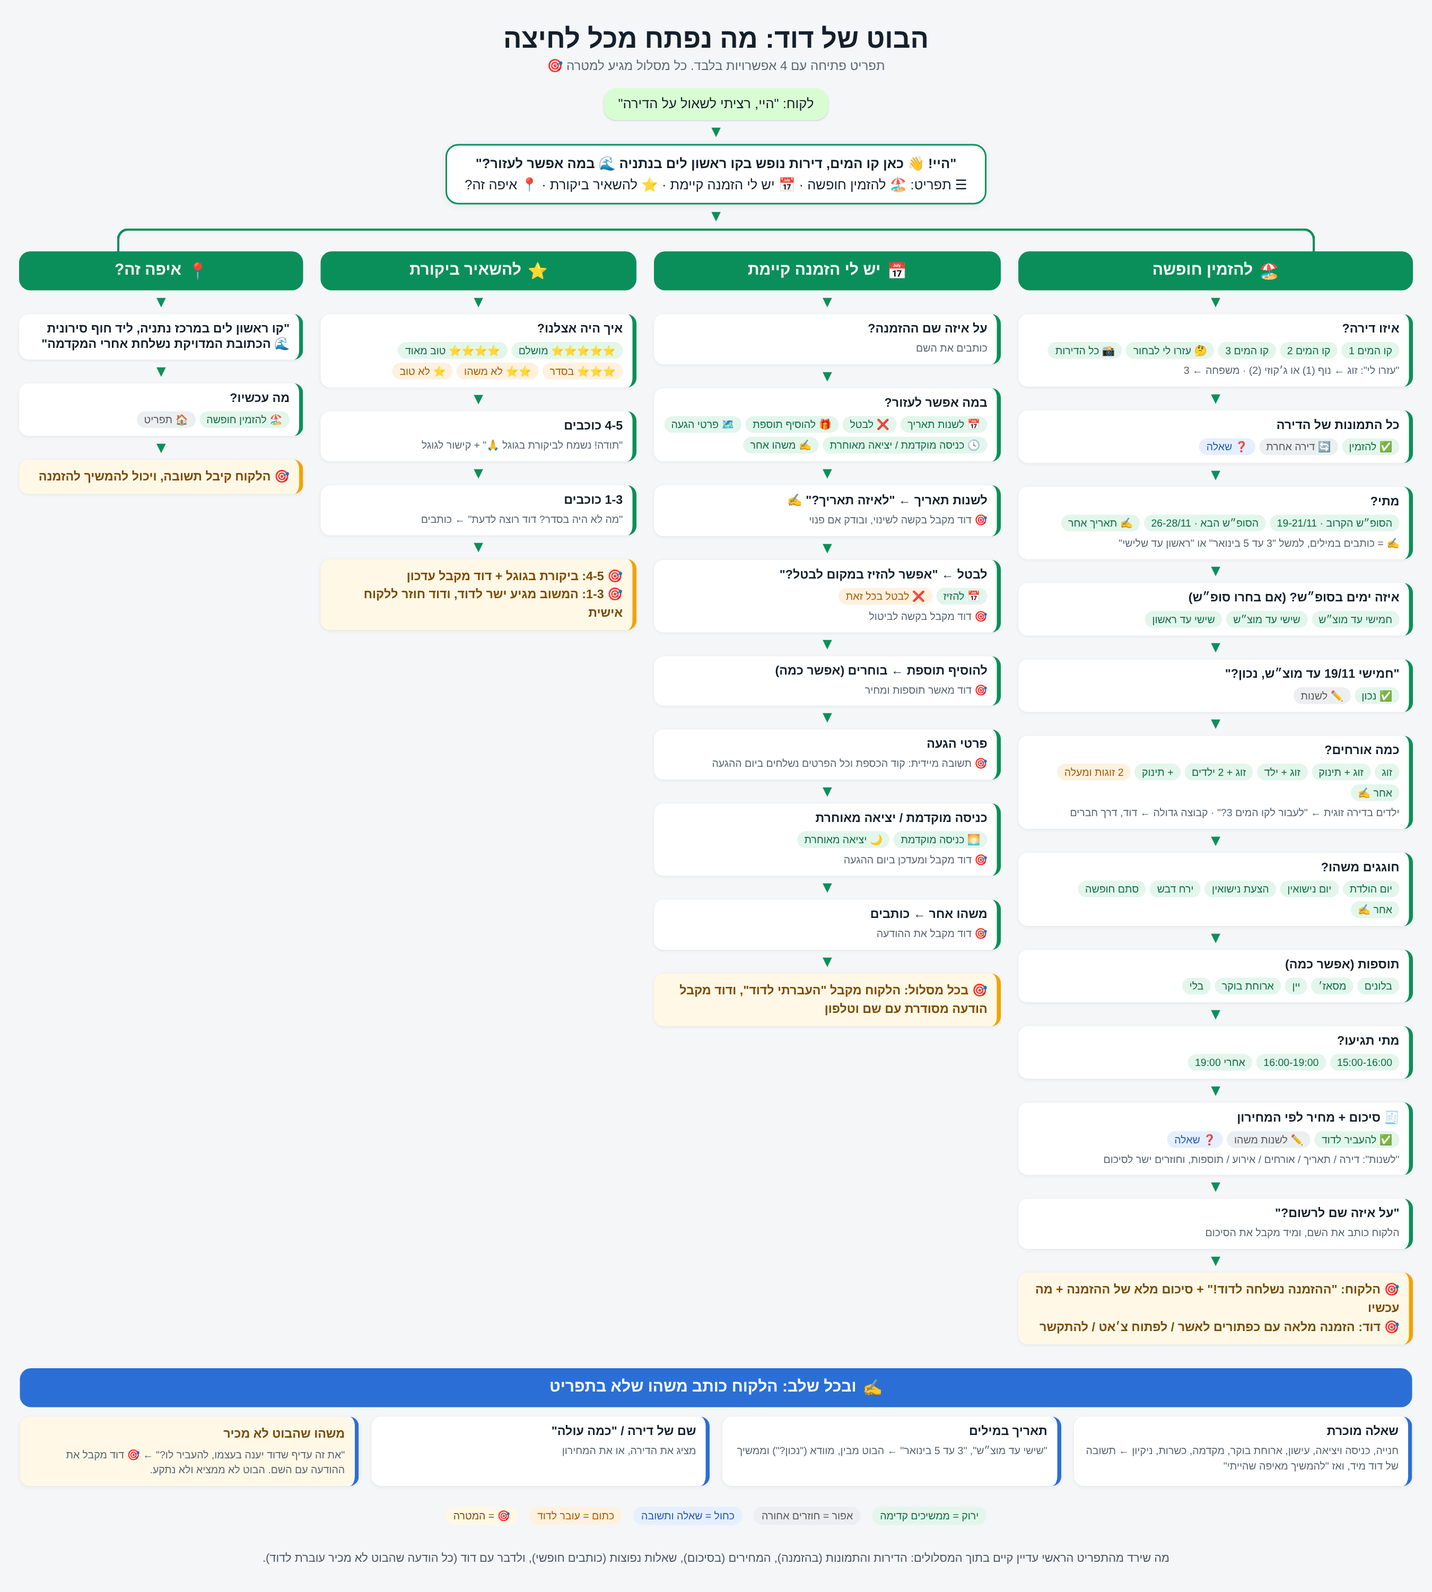
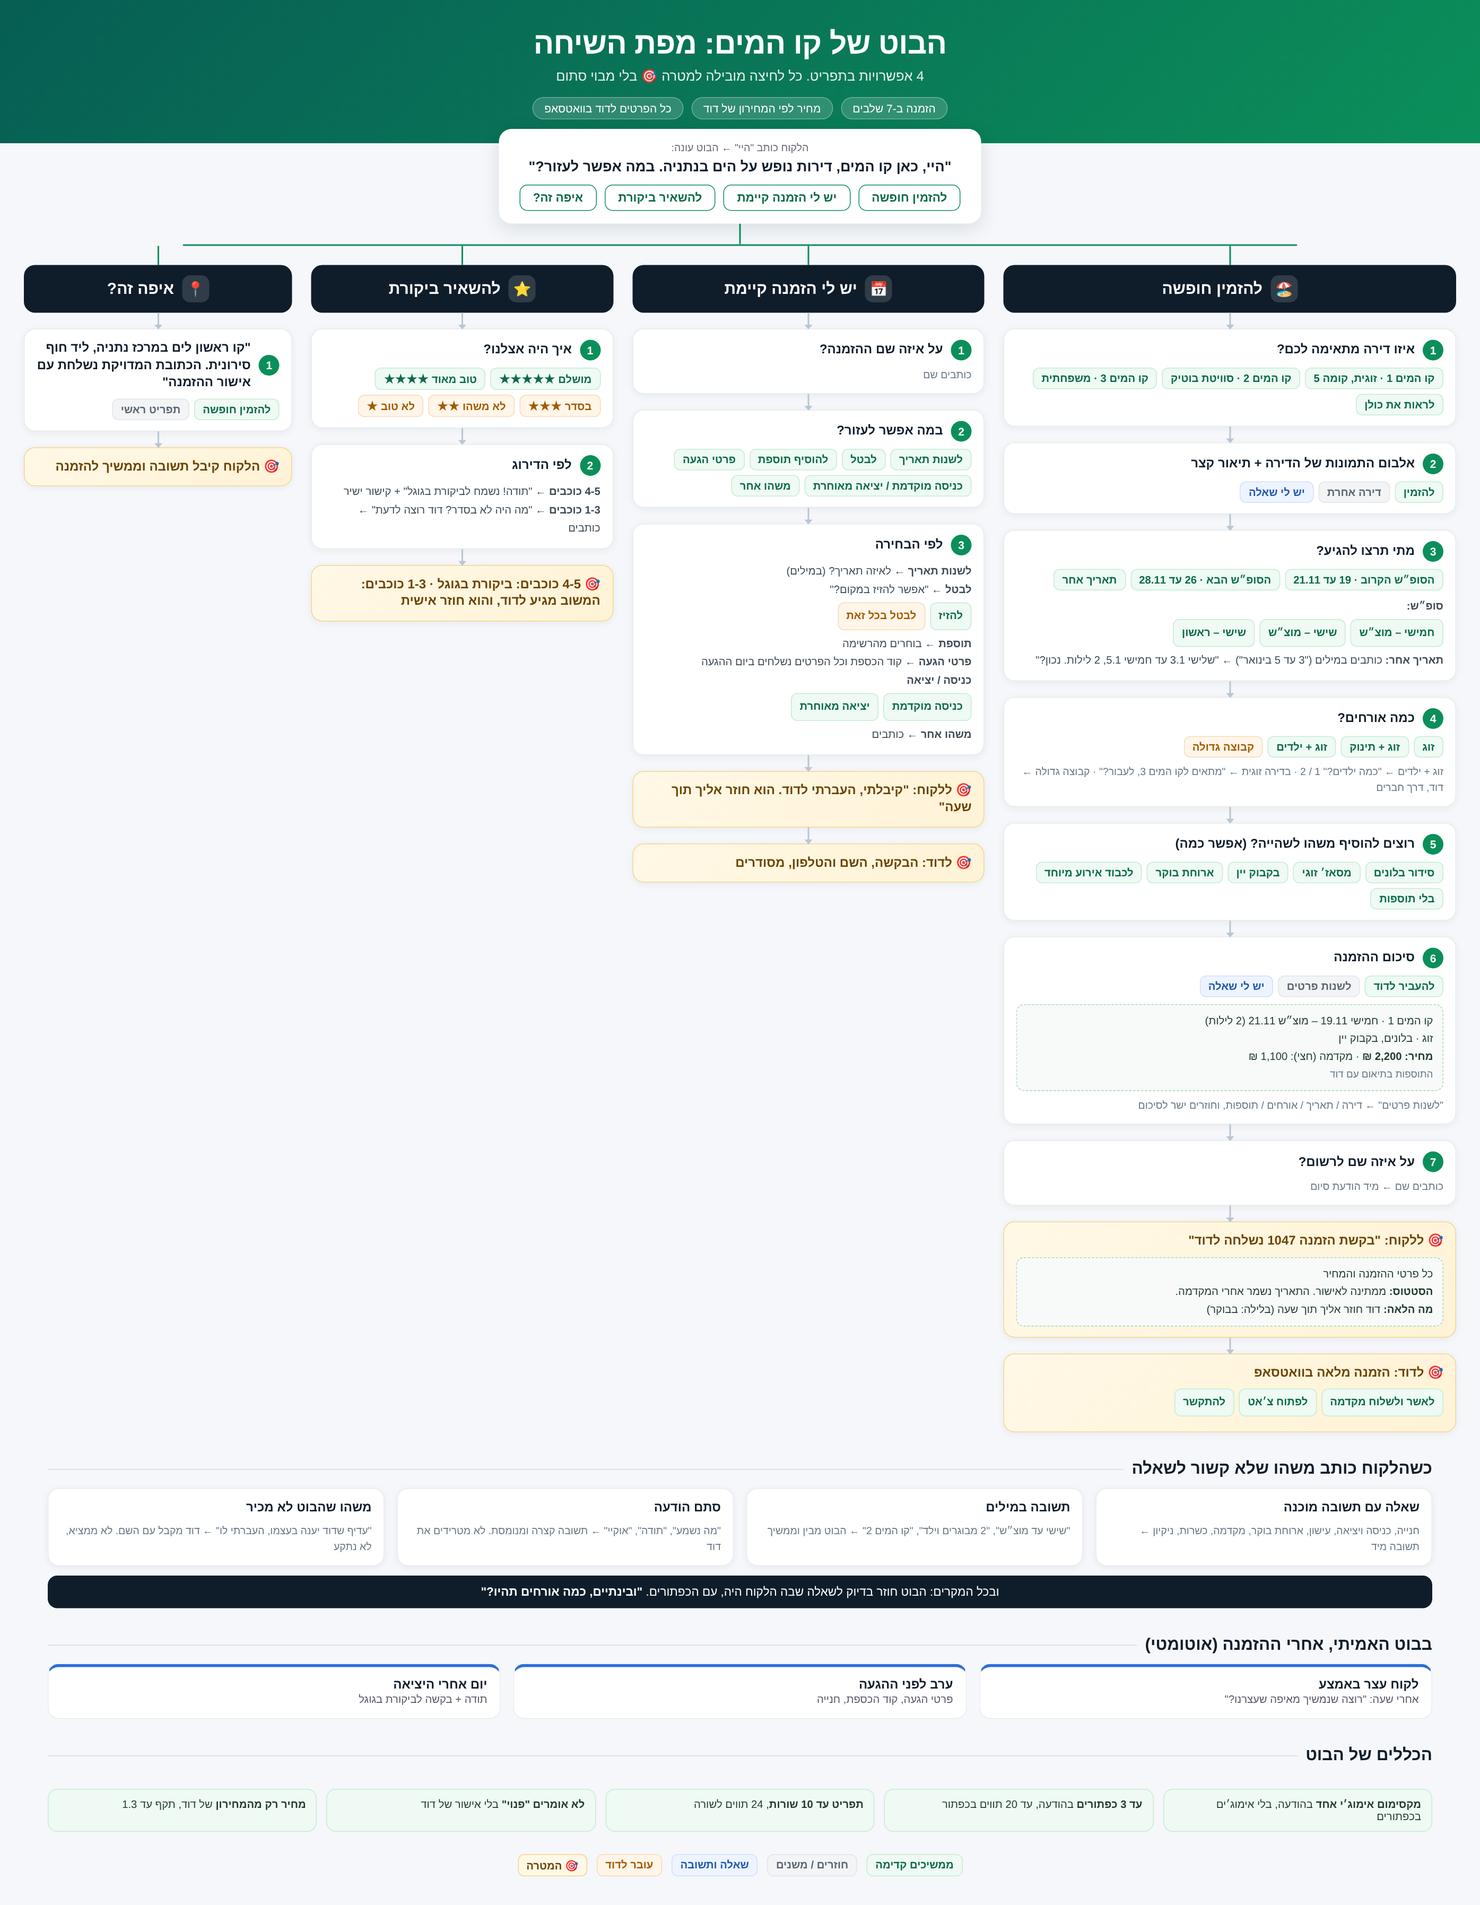
David: professional conversation map (7-step booking, 4-option menu)
Claude-Session: https://claude.ai/code/session_01ASRMwiCmV7VLN1LwrbbDK1

Changed region(s): [[0.0, 0.0, 1.0, 0.9913], [0.6533, 0.9294, 0.6844, 0.9604]]

diff --git a/automation-agency/clients/david-vacation/menu-bot/david-menu-funnel.html b/automation-agency/clients/david-vacation/menu-bot/david-menu-funnel.html
@@ -1,0 +1,46 @@
+<!doctype html><html dir="rtl"><head><meta charset="utf-8"><style>
+*{box-sizing:border-box}body{margin:0;background:#f5f7fa;font-family:"Heebo","Assistant",Arial,sans-serif;color:#0f1d2b}
+.top{background:linear-gradient(135deg,#075e54,#0b8f5a);color:#fff;padding:34px 40px 30px;text-align:center}
+.top h1{margin:0;font-size:38px;font-weight:800;letter-spacing:-.5px}.top p{margin:8px 0 0;font-size:17px;opacity:.9}
+.badges{display:flex;justify-content:center;gap:10px;margin-top:16px}.badges span{background:rgba(255,255,255,.16);border:1px solid rgba(255,255,255,.3);border-radius:20px;padding:5px 14px;font-size:14px}
+.start{display:flex;flex-direction:column;align-items:center;margin-top:-18px}
+.bub{background:#fff;border-radius:16px;box-shadow:0 6px 24px rgba(15,29,43,.12);padding:16px 26px;text-align:center;max-width:820px}
+.bub .c{font-size:13px;color:#667;margin-bottom:6px}.bub .m{font-size:18px;font-weight:600}
+.menu{display:flex;gap:10px;justify-content:center;margin-top:12px}.menu span{border:1.5px solid #0b8f5a;color:#0b6b45;border-radius:10px;padding:7px 16px;font-weight:600;font-size:15px}
+.trunk{width:2px;height:26px;background:#0b8f5a;margin:0 auto}.bar{height:2px;background:#0b8f5a;margin:0 auto;width:calc(100% - 420px);max-width:1400px}
+.cols{display:grid;grid-template-columns:1.35fr 1.05fr .9fr .8fr;gap:24px;padding:0 30px;max-width:1860px;margin:0 auto;align-items:start}
+.col{display:flex;flex-direction:column;align-items:stretch}
+.col::before{content:"";width:2px;height:24px;background:#0b8f5a;align-self:center}
+.hd{background:#0f1d2b;color:#fff;border-radius:14px;padding:13px 16px;font-size:20px;font-weight:700;display:flex;align-items:center;gap:10px;justify-content:center}
+.ic{background:rgba(255,255,255,.14);width:34px;height:34px;border-radius:10px;display:inline-flex;align-items:center;justify-content:center;font-size:18px}
+.ln{width:2px;height:20px;background:#b9c6d2;align-self:center;position:relative}.ln::after{content:"";position:absolute;bottom:-1px;left:-4px;border:5px solid transparent;border-top:6px solid #b9c6d2;border-bottom:0}
+.st{background:#fff;border-radius:14px;padding:13px 15px;box-shadow:0 2px 10px rgba(15,29,43,.06);border:1px solid #e7ecf1}
+.sh{display:flex;align-items:center;gap:10px}.num{background:#0b8f5a;color:#fff;min-width:26px;height:26px;border-radius:50%;display:inline-flex;align-items:center;justify-content:center;font-weight:700;font-size:14px}
+.q{font-weight:700;font-size:16px;line-height:1.35}
+.os{display:flex;flex-wrap:wrap;gap:6px;margin-top:9px}.o{font-size:13.5px;border-radius:8px;padding:5px 10px;font-weight:600;border:1px solid}
+.o.g{background:#eefaf3;color:#0b6b45;border-color:#c6ebd5}.o.r{background:#f2f4f6;color:#5a6672;border-color:#e0e5ea}.o.b{background:#eef4ff;color:#1f57b0;border-color:#cfdffb}.o.d{background:#fff5e8;color:#a35a00;border-color:#f6dcb6}
+.sub{font-size:13.5px;color:#3d4a56;margin-top:9px;line-height:1.7}.sub .os{margin:4px 0 6px}
+.n{font-size:13px;color:#667585;margin-top:8px;line-height:1.55}
+.card{background:#f7faf8;border:1px dashed #9fd4b5;border-radius:10px;padding:9px 12px;font-size:13.5px;line-height:1.65;color:#1f3a2c}.card span{color:#667585;font-size:12.5px}
+.st.goal{background:linear-gradient(135deg,#fff8e6,#fff3d6);border-color:#f3d48f}.st.goal .q{color:#6b4300}
+.sec{max-width:1800px;margin:34px auto 0;padding:0 30px}.sect{font-size:21px;font-weight:800;margin-bottom:12px;display:flex;align-items:center;gap:10px}.sect::after{content:"";flex:1;height:1px;background:#d4dce4}
+.grid4{display:grid;grid-template-columns:repeat(4,1fr);gap:16px}
+.always{margin-top:12px;background:#0f1d2b;color:#fff;border-radius:12px;padding:12px 18px;font-size:15px;text-align:center}
+.tl{display:grid;grid-template-columns:repeat(3,1fr);gap:16px}.tli{background:#fff;border:1px solid #e7ecf1;border-radius:14px;padding:14px 16px;border-top:4px solid #2b6fd6}.tli b{display:block;font-size:16px}.tli span{font-size:13.5px;color:#556}
+.rules{max-width:1800px;margin:30px auto 0;padding:0 30px;display:grid;grid-template-columns:repeat(5,1fr);gap:12px}.rules div{background:#eefaf3;border:1px solid #c6ebd5;border-radius:12px;padding:11px 13px;font-size:13.5px;color:#1f3a2c}
+.leg{display:flex;gap:12px;justify-content:center;margin:28px 0 36px;font-size:13.5px}
+</style></head><body>
+<div class="top"><h1>הבוט של קו המים: מפת השיחה</h1><p>4 אפשרויות בתפריט. כל לחיצה מובילה למטרה 🎯 בלי מבוי סתום</p><div class="badges"><span>הזמנה ב-7 שלבים</span><span>מחיר לפי המחירון של דוד</span><span>כל הפרטים לדוד בוואטסאפ</span></div></div>
+<div class="start"><div class="bub"><div class="c">הלקוח כותב "היי" ← הבוט עונה:</div><div class="m">"היי, כאן קו המים, דירות נופש על הים בנתניה. במה אפשר לעזור?"</div><div class="menu"><span>להזמין חופשה</span><span>יש לי הזמנה קיימת</span><span>להשאיר ביקורת</span><span>איפה זה?</span></div></div></div>
+<div class="trunk"></div><div class="bar"></div>
+<div class="cols"><div class="col wide"><div class="hd"><span class="ic">🏖</span>להזמין חופשה</div><div class="ln"></div><div class="st"><div class="sh"><span class="num">1</span><span class="q">איזו דירה מתאימה לכם?</span></div><div class="os"><span class="o g">קו המים 1 · זוגית, קומה 5</span><span class="o g">קו המים 2 · סוויטת בוטיק</span><span class="o g">קו המים 3 · משפחתית</span><span class="o g">לראות את כולן</span></div></div><div class="ln"></div><div class="st"><div class="sh"><span class="num">2</span><span class="q">אלבום התמונות של הדירה + תיאור קצר</span></div><div class="os"><span class="o g">להזמין</span><span class="o r">דירה אחרת</span><span class="o b">יש לי שאלה</span></div></div><div class="ln"></div><div class="st"><div class="sh"><span class="num">3</span><span class="q">מתי תרצו להגיע?</span></div><div class="os"><span class="o g">הסופ״ש הקרוב · 19 עד 21.11</span><span class="o g">הסופ״ש הבא · 26 עד 28.11</span><span class="o g">תאריך אחר</span></div><div class="sub"><b>סופ״ש:</b> <div class="os"><span class="o g">חמישי – מוצ״ש</span><span class="o g">שישי – מוצ״ש</span><span class="o g">שישי – ראשון</span></div><b>תאריך אחר:</b> כותבים במילים ("3 עד 5 בינואר") ← "שלישי 3.1 עד חמישי 5.1, 2 לילות. נכון?"</div></div><div class="ln"></div><div class="st"><div class="sh"><span class="num">4</span><span class="q">כמה אורחים?</span></div><div class="os"><span class="o g">זוג</span><span class="o g">זוג + תינוק</span><span class="o g">זוג + ילדים</span><span class="o d">קבוצה גדולה</span></div><div class="n">זוג + ילדים ← "כמה ילדים?" 1 / 2 · בדירה זוגית ← "מתאים לקו המים 3, לעבור?" · קבוצה גדולה ← דוד, דרך חברים</div></div><div class="ln"></div><div class="st"><div class="sh"><span class="num">5</span><span class="q">רוצים להוסיף משהו לשהייה? (אפשר כמה)</span></div><div class="os"><span class="o g">סידור בלונים</span><span class="o g">מסאז׳ זוגי</span><span class="o g">בקבוק יין</span><span class="o g">ארוחת בוקר</span><span class="o g">לכבוד אירוע מיוחד</span><span class="o g">בלי תוספות</span></div></div><div class="ln"></div><div class="st"><div class="sh"><span class="num">6</span><span class="q">סיכום ההזמנה</span></div><div class="os"><span class="o g">להעביר לדוד</span><span class="o r">לשנות פרטים</span><span class="o b">יש לי שאלה</span></div><div class="sub"><div class="card">קו המים 1 · חמישי 19.11 – מוצ״ש 21.11 (2 לילות)<br>זוג · בלונים, בקבוק יין<br><b>מחיר: 2,200 ₪</b> · מקדמה (חצי): 1,100 ₪<br><span>התוספות בתיאום עם דוד</span></div></div><div class="n">"לשנות פרטים" ← דירה / תאריך / אורחים / תוספות, וחוזרים ישר לסיכום</div></div><div class="ln"></div><div class="st"><div class="sh"><span class="num">7</span><span class="q">על איזה שם לרשום?</span></div><div class="n">כותבים שם ← מיד הודעת סיום</div></div><div class="ln"></div><div class="st goal"><div class="sh"><span class="q">🎯 ללקוח: "בקשת הזמנה 1047 נשלחה לדוד"</span></div><div class="sub"><div class="card">כל פרטי ההזמנה והמחיר<br><b>הסטטוס:</b> ממתינה לאישור. התאריך נשמר אחרי המקדמה.<br><b>מה הלאה:</b> דוד חוזר אליך תוך שעה (בלילה: בבוקר)</div></div></div><div class="ln"></div><div class="st goal"><div class="sh"><span class="q">🎯 לדוד: הזמנה מלאה בוואטסאפ</span></div><div class="sub"><div class="os"><span class="o g">לאשר ולשלוח מקדמה</span><span class="o g">לפתוח צ׳אט</span><span class="o g">להתקשר</span></div></div></div></div><div class="col "><div class="hd"><span class="ic">📅</span>יש לי הזמנה קיימת</div><div class="ln"></div><div class="st"><div class="sh"><span class="num">1</span><span class="q">על איזה שם ההזמנה?</span></div><div class="n">כותבים שם</div></div><div class="ln"></div><div class="st"><div class="sh"><span class="num">2</span><span class="q">במה אפשר לעזור?</span></div><div class="os"><span class="o g">לשנות תאריך</span><span class="o g">לבטל</span><span class="o g">להוסיף תוספת</span><span class="o g">פרטי הגעה</span><span class="o g">כניסה מוקדמת / יציאה מאוחרת</span><span class="o g">משהו אחר</span></div></div><div class="ln"></div><div class="st"><div class="sh"><span class="num">3</span><span class="q">לפי הבחירה</span></div><div class="sub"><b>לשנות תאריך</b> ← לאיזה תאריך? (במילים)<br><b>לבטל</b> ← "אפשר להזיז במקום?" <div class="os"><span class="o g">להזיז</span><span class="o d">לבטל בכל זאת</span></div><b>תוספת</b> ← בוחרים מהרשימה<br><b>פרטי הגעה</b> ← קוד הכספת וכל הפרטים נשלחים ביום ההגעה<br><b>כניסה / יציאה</b> <div class="os"><span class="o g">כניסה מוקדמת</span><span class="o g">יציאה מאוחרת</span></div><b>משהו אחר</b> ← כותבים</div></div><div class="ln"></div><div class="st goal"><div class="sh"><span class="q">🎯 ללקוח: "קיבלתי, העברתי לדוד. הוא חוזר אליך תוך שעה"</span></div></div><div class="ln"></div><div class="st goal"><div class="sh"><span class="q">🎯 לדוד: הבקשה, השם והטלפון, מסודרים</span></div></div></div><div class="col "><div class="hd"><span class="ic">⭐</span>להשאיר ביקורת</div><div class="ln"></div><div class="st"><div class="sh"><span class="num">1</span><span class="q">איך היה אצלנו?</span></div><div class="os"><span class="o g">מושלם ★★★★★</span><span class="o g">טוב מאוד ★★★★</span><span class="o d">בסדר ★★★</span><span class="o d">לא משהו ★★</span><span class="o d">לא טוב ★</span></div></div><div class="ln"></div><div class="st"><div class="sh"><span class="num">2</span><span class="q">לפי הדירוג</span></div><div class="sub"><b>4-5 כוכבים</b> ← "תודה! נשמח לביקורת בגוגל" + קישור ישיר<br><b>1-3 כוכבים</b> ← "מה היה לא בסדר? דוד רוצה לדעת" ← כותבים</div></div><div class="ln"></div><div class="st goal"><div class="sh"><span class="q">🎯 4-5 כוכבים: ביקורת בגוגל · 1-3 כוכבים: המשוב מגיע לדוד, והוא חוזר אישית</span></div></div></div><div class="col "><div class="hd"><span class="ic">📍</span>איפה זה?</div><div class="ln"></div><div class="st"><div class="sh"><span class="num">1</span><span class="q">"קו ראשון לים במרכז נתניה, ליד חוף סירונית. הכתובת המדויקת נשלחת עם אישור ההזמנה"</span></div><div class="os"><span class="o g">להזמין חופשה</span><span class="o r">תפריט ראשי</span></div></div><div class="ln"></div><div class="st goal"><div class="sh"><span class="q">🎯 הלקוח קיבל תשובה וממשיך להזמנה</span></div></div></div></div><div class="sec"><div class="sect">כשהלקוח כותב משהו שלא קשור לשאלה</div><div class="grid4">
+<div class="st"><div class="sh"><span class="q">שאלה עם תשובה מוכנה</span></div><div class="n">חנייה, כניסה ויציאה, עישון, ארוחת בוקר, מקדמה, כשרות, ניקיון ← תשובה מיד</div></div>
+<div class="st"><div class="sh"><span class="q">תשובה במילים</span></div><div class="n">"שישי עד מוצ״ש", "2 מבוגרים וילד", "קו המים 2" ← הבוט מבין וממשיך</div></div>
+<div class="st"><div class="sh"><span class="q">סתם הודעה</span></div><div class="n">"מה נשמע", "תודה", "אוקיי" ← תשובה קצרה ומנומסת. לא מטרידים את דוד</div></div>
+<div class="st"><div class="sh"><span class="q">משהו שהבוט לא מכיר</span></div><div class="n">"עדיף שדוד יענה בעצמו, העברתי לו" ← דוד מקבל עם השם. לא ממציא, לא נתקע</div></div>
+</div><div class="always">ובכל המקרים: הבוט חוזר בדיוק לשאלה שבה הלקוח היה, עם הכפתורים. <b>"ובינתיים, כמה אורחים תהיו?"</b></div></div><div class="sec"><div class="sect">בבוט האמיתי, אחרי ההזמנה (אוטומטי)</div><div class="tl">
+<div class="tli"><b>לקוח עצר באמצע</b><span>אחרי שעה: "רוצה שנמשיך מאיפה שעצרנו?"</span></div>
+<div class="tli"><b>ערב לפני ההגעה</b><span>פרטי הגעה, קוד הכספת, חנייה</span></div>
+<div class="tli"><b>יום אחרי היציאה</b><span>תודה + בקשה לביקורת בגוגל</span></div>
+</div></div><div class="sec"><div class="sect">הכללים של הבוט</div></div><div class="rules"><div><b>מקסימום אימוג׳י אחד</b> בהודעה, בלי אימוג׳ים בכפתורים</div><div><b>עד 3 כפתורים</b> בהודעה, עד 20 תווים בכפתור</div><div><b>תפריט עד 10 שורות</b>, 24 תווים לשורה</div><div><b>לא אומרים "פנוי"</b> בלי אישור של דוד</div><div><b>מחיר רק מהמחירון</b> של דוד, תקף עד 1.3</div></div>
+<div class="leg"><span class="o g">ממשיכים קדימה</span><span class="o r">חוזרים / משנים</span><span class="o b">שאלה ותשובה</span><span class="o d">עובר לדוד</span><span class="o" style="background:#fff8e6;color:#6b4300;border-color:#f3d48f">🎯 המטרה</span></div></body></html>
